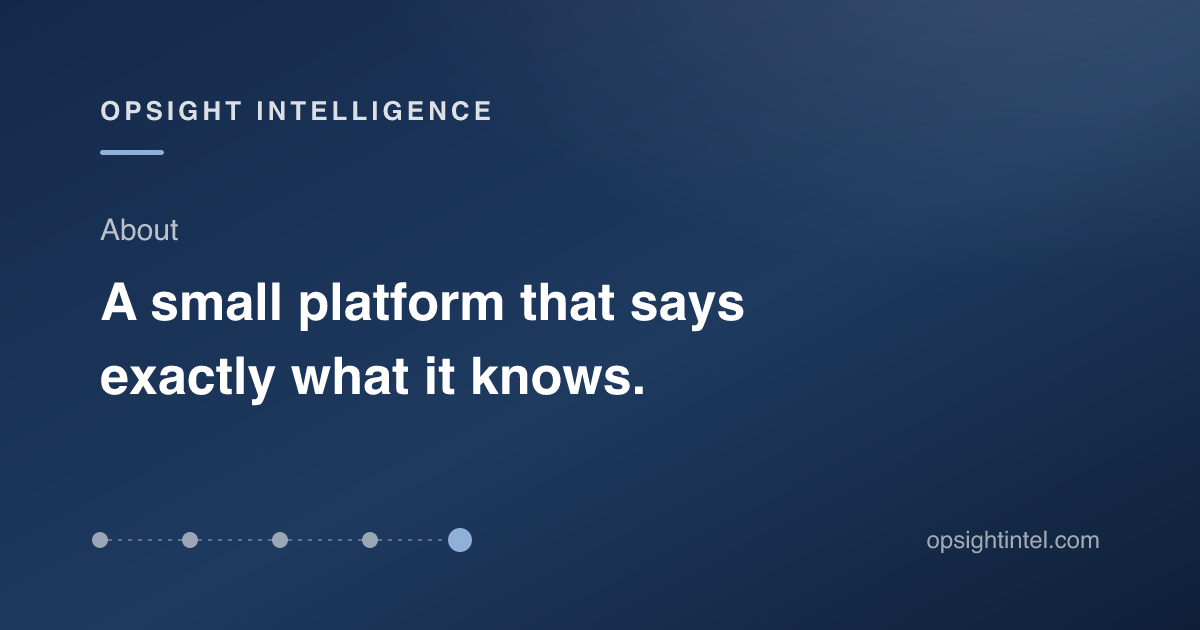
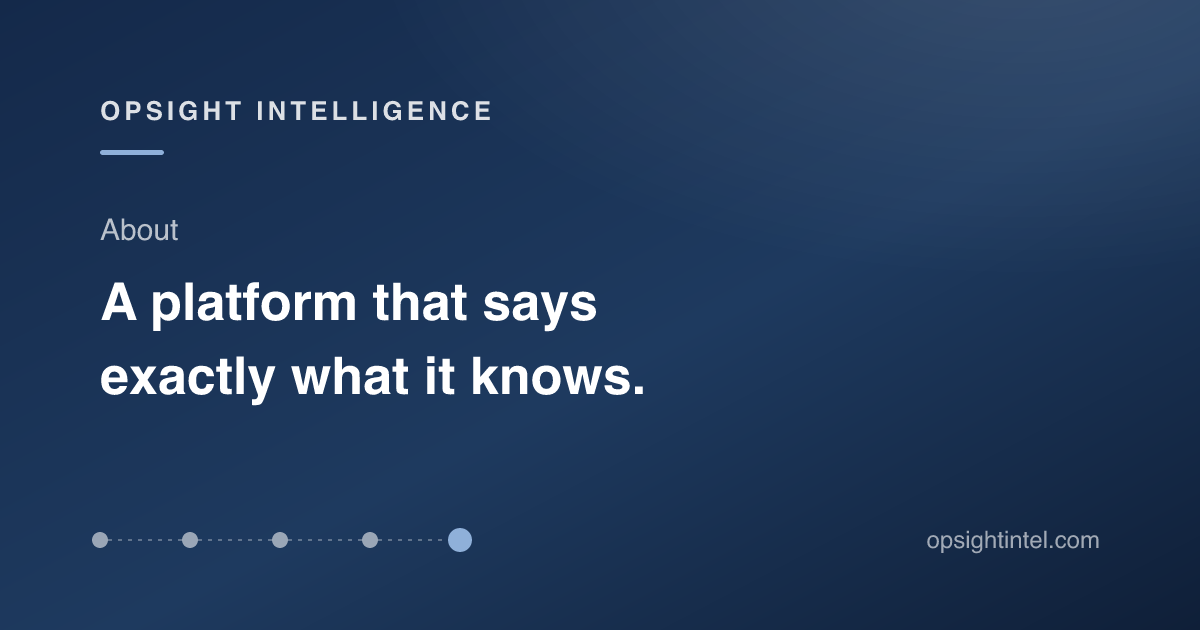
fix(about): drop the size wording, enlarge the hero art [v0.35.2]

Changed region(s): [[0.1233, 0.4524, 0.6167, 0.5429]]

diff --git a/src/i18n/about.ts b/src/i18n/about.ts
@@ -19,22 +19,22 @@ const CONTACT = 'utku@opsightintel.com'; // becomes contact@ once the alias is c
 export const about: Record<AboutLocale, AboutCopy> = {
   en: {
     title: 'About — Opsight Intelligence',
-    description: 'Opsight Intelligence is a small intelligence platform built in Korea: fraud ecosystems on Telegram, Korean public procurement, manufacturing forensics, and AI governance — one lifecycle, public sources, numbers that are live or labelled.',
+    description: 'Opsight Intelligence is an intelligence platform built in Korea: fraud ecosystems on Telegram, Korean public procurement, manufacturing forensics, and AI governance — one lifecycle, public sources, numbers that are live or labelled.',
     hero: {
       eyebrow: 'About',
-      title: 'A small platform that says exactly what it knows.',
+      title: 'A platform that says exactly what it knows.',
       lead: 'Opsight turns public signals into intelligence products for people who have to act on them — compliance teams, procurement offices, plant managers, engineering leads — and states plainly what is measured, what is inferred, and what is synthetic.',
     },
     who: {
       heading: 'Who',
       body: [
-        'Opsight Intelligence is built and run from Korea by a small team with a background in OSINT entity classification, procurement data and manufacturing analytics. The platform is one codebase per line on one shared bus, collecting nightly on a single schedule.',
+        'Opsight Intelligence is built and run from Korea, with a background in OSINT entity classification, procurement data and manufacturing analytics. The platform is one codebase per line on one shared bus, collecting nightly on a single schedule.',
         'Three lines are live — fraud, procurement, manufacturing — one product, OpSentry, is open source, and above the lines sits a platform layer: one entity across them, nightly sanctions screening, the corporate registry, and a consortium exchange that shares hashes and bands. The platform runs where the data lives; nothing is hosted for a client that the client has not asked for.',
       ],
     },
     credentials: {
       heading: 'Who builds it',
-      lead: 'One engineer, stated plainly. These are the credits the platform rests on; none of them is a client of Opsight.',
+      lead: 'The experience the platform rests on. None of these is a client of Opsight.',
       items: [
         { title: 'Senior solution engineer, manufacturing', body: 'Worked directly with Fortune 500 OEMs and their tier-1 suppliers on production-analytics solutions — the methods the manufacturing line runs are the ones proven there.' },
         { title: '2nd place, Snowflake APJ Hackathon 2026', body: 'For an automated manufacturing workflow: sense, reason, act and record over a fleet, the same shape as the agent that runs here nightly.' },
@@ -52,7 +52,7 @@ export const about: Record<AboutLocale, AboutCopy> = {
         { title: 'Public sources only', body: 'Open channels, open APIs, and data a customer exports from its own systems. The method page lists what that excludes.' },
         { title: 'Nightly, on a schedule', body: 'Every line collects and publishes every night. A figure on this site carries the date it was written.' },
         { title: 'Evidence before opinion', body: 'An alert names its evidence and its legal basis or it is not sent. A demo says whether it is synthetic.' },
-        { title: 'Small by design', body: 'One conversation, one sample, one decision. No account to create, no call unless you want one.' },
+        { title: 'Simple to start', body: 'One conversation, one sample, one decision. No account to create, no call unless you want one.' },
       ],
     },
     contact: {
@@ -75,22 +75,22 @@ export const about: Record<AboutLocale, AboutCopy> = {
   },
   ko: {
     title: '소개 — Opsight Intelligence',
-    description: 'Opsight Intelligence는 한국에서 만든 작은 인텔리전스 플랫폼입니다: 텔레그램 사기 생태계, 한국 공공조달, 제조 포렌식, AI 거버넌스 — 하나의 생명주기, 공개 소스, 실시간이거나 표시된 숫자.',
+    description: 'Opsight Intelligence는 한국에서 만든 인텔리전스 플랫폼입니다: 텔레그램 사기 생태계, 한국 공공조달, 제조 포렌식, AI 거버넌스 — 하나의 생명주기, 공개 소스, 실시간이거나 표시된 숫자.',
     hero: {
       eyebrow: '소개',
-      title: '아는 것을 정확히 말하는 작은 플랫폼.',
+      title: '아는 것을 정확히 말하는 플랫폼.',
       lead: 'Opsight는 공개 신호를 행동해야 하는 사람들을 위한 인텔리전스 제품으로 바꿉니다 — 준법감시팀, 조달 담당 부서, 공장 관리자, 엔지니어링 리드 — 그리고 무엇이 측정이고, 무엇이 추론이며, 무엇이 합성인지 분명히 말합니다.',
     },
     who: {
       heading: '누가',
       body: [
-        'Opsight Intelligence는 OSINT 엔티티 분류, 조달 데이터, 제조 분석 배경을 가진 소규모 팀이 한국에서 만들고 운영합니다. 플랫폼은 라인별 하나의 코드베이스가 하나의 공유 버스 위에서, 하나의 일정으로 매일 밤 수집합니다.',
+        'Opsight Intelligence는 OSINT 엔티티 분류, 조달 데이터, 제조 분석 경험을 바탕으로 한국에서 만들고 운영합니다. 플랫폼은 라인별 하나의 코드베이스가 하나의 공유 버스 위에서, 하나의 일정으로 매일 밤 수집합니다.',
         '세 개의 라인 — 사기, 공공조달, 제조 — 이 운영 중이고, OpSentry 하나는 오픈소스 제품이며, 라인 위에는 플랫폼 계층이 있습니다: 라인을 가로지르는 하나의 엔터티, 매일 밤의 제재 스크리닝, 기업 등기, 해시와 구간만 교환하는 컨소시엄. 플랫폼은 데이터가 있는 곳에서 돌아가며, 고객이 요청하지 않은 것을 고객 대신 호스팅하지 않습니다.',
       ],
     },
     credentials: {
       heading: '누가 만드는가',
-      lead: '엔지니어 한 사람, 있는 그대로. 플랫폼이 기대는 경력이며, 어느 것도 Opsight의 고객이 아닙니다.',
+      lead: '플랫폼이 기대는 경험입니다. 어느 것도 Opsight의 고객이 아닙니다.',
       items: [
         { title: '제조 도메인 시니어 솔루션 엔지니어', body: 'Fortune 500 OEM과 1차 협력사를 직접 상대하며 생산 분석 솔루션을 구축했습니다. 제조 라인이 돌리는 방법론은 그곳에서 검증된 것입니다.' },
         { title: 'Snowflake APJ 해커톤 2026 2위', body: '자동화된 제조 워크플로 — 감지·추론·실행·기록을 설비 전체에 걸쳐 수행하는 구조로, 여기서 매일 밤 도는 에이전트와 같은 형태입니다.' },
@@ -108,7 +108,7 @@ export const about: Record<AboutLocale, AboutCopy> = {
         { title: '공개 소스만', body: '공개 채널, 공개 API, 고객이 자기 시스템에서 내보낸 데이터. 제외되는 것은 방법론 페이지에 있습니다.' },
         { title: '매일 밤, 일정대로', body: '모든 라인이 매일 밤 수집하고 발행합니다. 이 사이트의 수치에는 작성일이 붙습니다.' },
         { title: '의견보다 근거 먼저', body: '알림은 근거와 법적 근거를 명시하거나 보내지 않습니다. 데모는 합성 여부를 밝힙니다.' },
-        { title: '의도적으로 작게', body: '한 번의 대화, 하나의 샘플, 하나의 결정. 만들 계정도, 원치 않는 통화도 없습니다.' },
+        { title: '시작은 간단하게', body: '한 번의 대화, 하나의 샘플, 하나의 결정. 만들 계정도, 원치 않는 통화도 없습니다.' },
       ],
     },
     contact: {

diff --git a/public/design/editorial.css b/public/design/editorial.css
@@ -165,11 +165,19 @@
 .ed-pagehero { position: relative; overflow: hidden; isolation: isolate; border-bottom: 1px solid var(--ed-line); }
 .ed-pagehero__field { opacity: 0.6; }
 .ed-pagehero::after { content: ""; position: absolute; inset: 0; z-index: -1; background: linear-gradient(90deg, rgba(5, 7, 10, 0.96) 0%, rgba(5, 7, 10, 0.75) 55%, rgba(5, 7, 10, 0.45) 100%); }
-.ed-pagehero__inner { max-width: var(--ed-page); margin: 0 auto; padding: 6rem var(--ed-gutter) 5rem; display: grid; grid-template-columns: minmax(0, 1.1fr) minmax(0, 0.9fr); gap: 3rem; align-items: center; }
+.ed-pagehero__inner { max-width: var(--ed-page); margin: 0 auto; padding: 6rem var(--ed-gutter) 5rem; display: grid; grid-template-columns: minmax(0, 1fr) minmax(0, 1fr); gap: 3rem; align-items: center; }
 @media (max-width: 960px) { .ed-pagehero__inner { grid-template-columns: minmax(0, 1fr); padding-top: 4rem; } }
 .ed-pagehero h1 { font-size: clamp(2rem, 4.4vw, 3.4rem); line-height: 1.08; margin: 0 0 1.25rem; }
 .ed-pagehero__live { display: flex; align-items: baseline; gap: 0.5rem; color: var(--ed-ink-faint); font-size: 0.875rem; margin: 0 0 2rem; max-width: 34rem; }
-.ed-pagehero__art .art { filter: drop-shadow(0 0 24px rgba(90, 180, 240, 0.12)); }
+.ed-pagehero__art .art,
+.ed-pagehero__art .lifecycle { display: block; width: 100%; height: auto; filter: drop-shadow(0 0 24px rgba(90, 180, 240, 0.12)); }
+/* the line drawings are wide and flat; on desktop let them run into the right margin so they hold their own beside the copy */
+@media (min-width: 961px) {
+  .ed-pagehero__art .art { width: 128%; max-width: none; }
+  .ed-pagehero__art .lifecycle { width: 112%; max-width: none; }
+}
+/* the lifecycle's last label sits past its viewBox edge; let it show */
+.ed-pagehero__art .lifecycle { overflow: visible; }
 
 /* step flow: numbered steps that light up in turn */
 .ed-steps { list-style: none; margin: 0; padding: 0; display: grid; grid-template-columns: repeat(var(--ed-steps, 4), minmax(0, 1fr)); gap: 1.5rem; position: relative; }

diff --git a/CHANGELOG.md b/CHANGELOG.md
@@ -10,6 +10,14 @@ listed individually.
 
 ## [Unreleased]
 
+### Changed
+
+- About page (English and Korean) no longer describes Opsight by its size: "A small platform" is now "A platform that
+  says exactly what it knows", "a small team" and "One engineer, stated plainly" are gone, "Small by design" is "Simple
+  to start" (작은 / 소규모 팀 / 엔지니어 한 사람 / 의도적으로 작게 likewise). The about Open Graph card is regenerated.
+- Inner-page hero art is larger: the art column is as wide as the copy and the line drawings run into the right margin
+  on desktop; the lifecycle's last label is no longer clipped.
+
 ### Fixed
 
 - Builds could fail before they started: a GitHub runner once served a cached Node 22.23.3, below the 22.23.4 Astro 7.4
